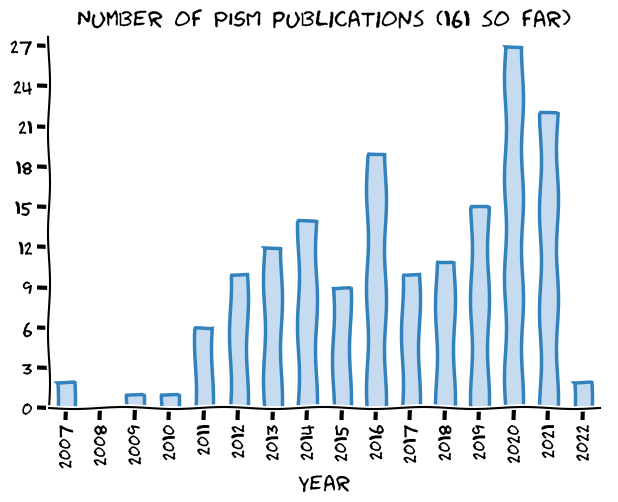
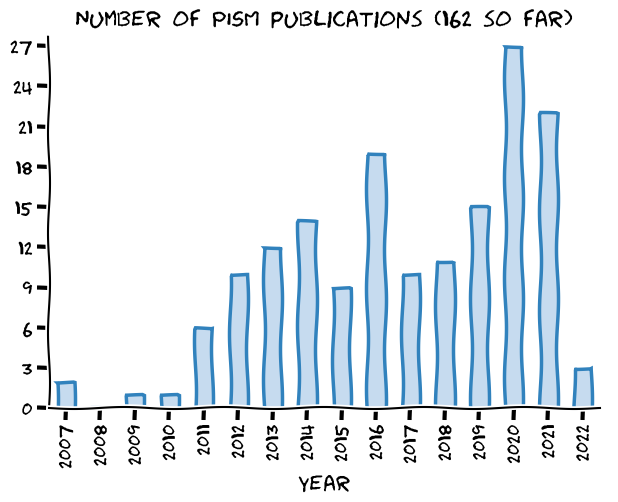
[skip ci] Update the website

Changed region(s): [[0.123, 0.0, 0.9223, 0.0598], [0.9223, 0.7171, 0.9838, 0.8068]]

diff --git a/publications/index.html b/publications/index.html
@@ -289,6 +289,7 @@ window.onscroll = function() {
 <ol>
   <li>Shuang Liu, Kaiheng Hu, Weiming Liu, and Paul A. Carling. Hydro-climatic characteristics of Yarlung Zangbo River Basin since the Last Glacial Maximum. <em>Adv. Atmos. Sci.</em>, 2022. <a href="https://doi.org/10.1007/s00376-021-1150-7">doi:10.1007/s00376-021-1150-7</a>.</li>
   <li>Martin Siegert and Nicholas R Golledge. Advances in Numerical Modelling of the Antarctic Ice Sheet. In <em>Antarctic Climate Evolution</em>, chapter 5, pages 199–218. Elsevier, 2nd edition, 2022.</li>
+  <li>Hu Yang, Uta Krebs-Kanzow, Thomas Kleiner, Dmitry Sidorenko, Christian Bernd Rodehacke, Xiaoxu Shi, Paul Gierz, Lu Niu, Evan J. Gowan, Sebastian Hinck, Xingxing Liu, Lennert B. Stap, and Gerrit Lohmann. Impact of paleoclimate on present and future evolution of the greenland ice sheet. <em>PLOS ONE</em>, 17(1):1–21, 2022. <a href="https://doi.org/10.1371/journal.pone.0259816">doi:10.1371/journal.pone.0259816</a>.</li>
 </ol>
 
 <h3 id="2021">2021</h3>

diff --git a/publications/published.md b/publications/published.md
@@ -2,6 +2,7 @@
 
 1. Shuang Liu, Kaiheng Hu, Weiming Liu, and Paul A\. Carling\. Hydro\-climatic characteristics of Yarlung Zangbo River Basin since the Last Glacial Maximum\. *Adv\. Atmos\. Sci\.*, 2022\. [doi:10\.1007/s00376\-021\-1150\-7](https://doi.org/10.1007/s00376-021-1150-7)\.   
 2. Martin Siegert and Nicholas R Golledge\. Advances in Numerical Modelling of the Antarctic Ice Sheet\. In *Antarctic Climate Evolution*, chapter 5, pages 199–218\. Elsevier, 2nd edition, 2022\.   
+3. Hu Yang, Uta Krebs\-Kanzow, Thomas Kleiner, Dmitry Sidorenko, Christian Bernd Rodehacke, Xiaoxu Shi, Paul Gierz, Lu Niu, Evan J\. Gowan, Sebastian Hinck, Xingxing Liu, Lennert B\. Stap, and Gerrit Lohmann\. Impact of paleoclimate on present and future evolution of the greenland ice sheet\. *PLOS ONE*, 17\(1\):1–21, 2022\. [doi:10\.1371/journal\.pone\.0259816](https://doi.org/10.1371/journal.pone.0259816)\.   
 
 ### 2021
 
